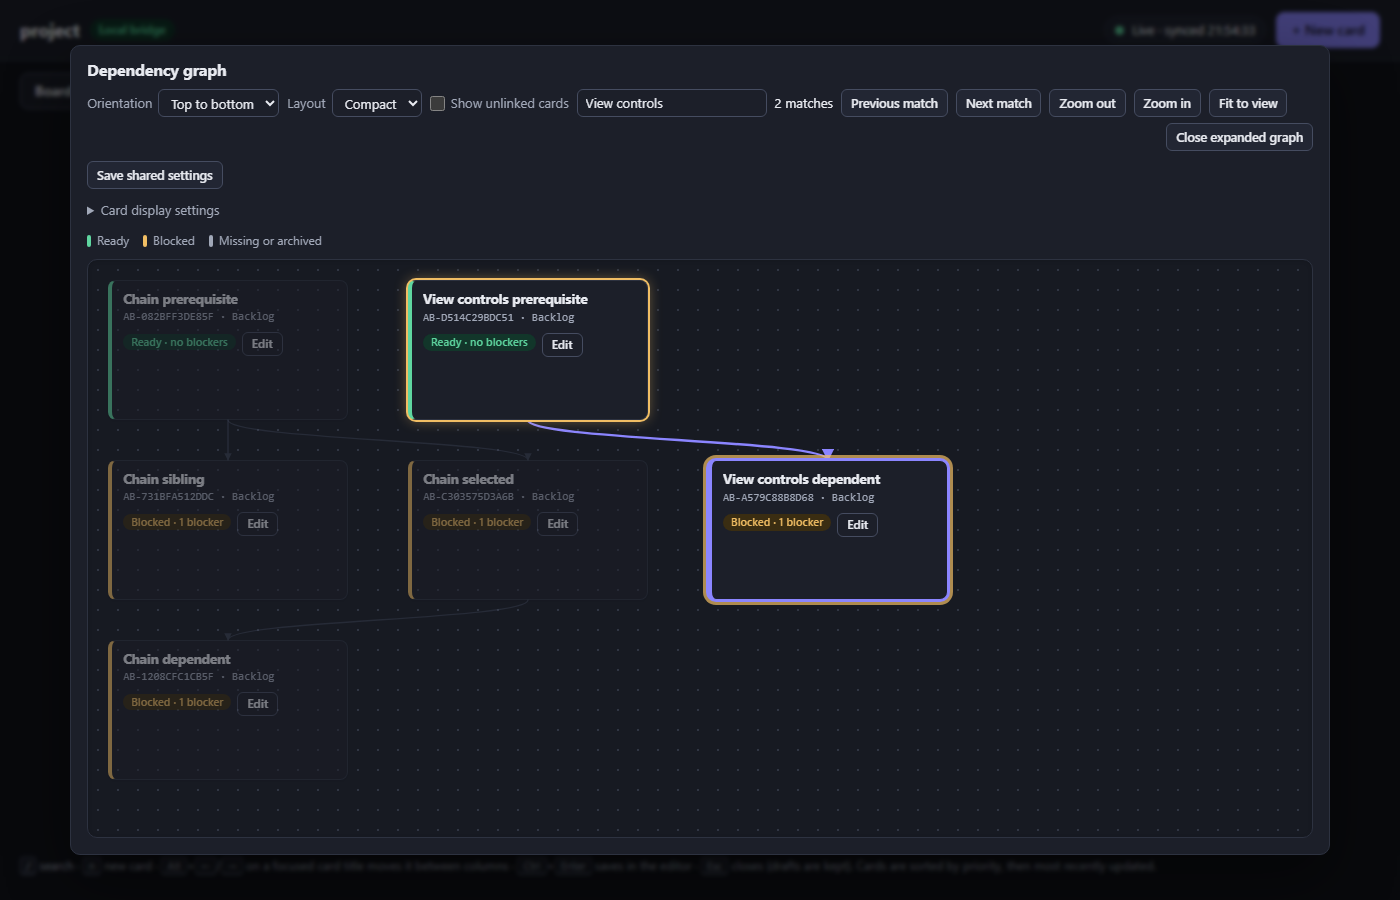
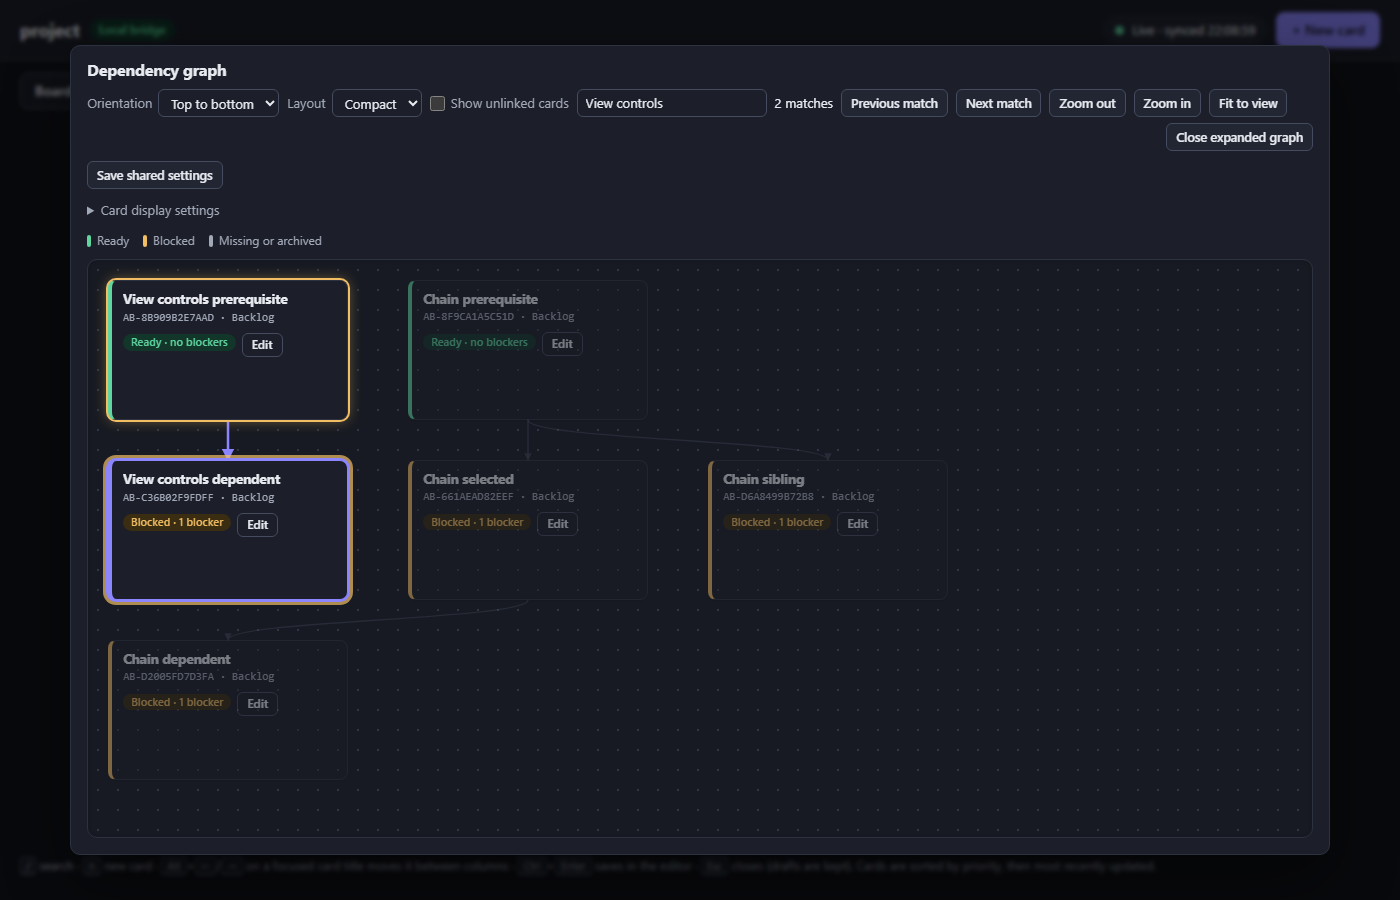
fix: keep graph controls accessible

diff --git a/tests/ui.test.ts b/tests/ui.test.ts
@@ -50,6 +50,14 @@ const cardsJs = `[...document.querySelectorAll('.col')].map(c => ({col: c.datase
 const colOf = (title: string) => `(() => { const t = [...document.querySelectorAll('.card-title')].find(x => x.textContent === ${JSON.stringify(title)}); return t ? t.closest('.col').dataset.col : null; })()`;
 const cardSel = (id: string) => `.card[data-id="${id}"]`;
 const hasCard = (title: string) => `[...document.querySelectorAll('.card-title')].some(x => x.textContent === ${JSON.stringify(title)})`;
+/** The selection state lives on the node's select button, not on the node container. */
+const pressed = (node: string) => `${node} .graph-select`;
+/** Native button activation needs the keypress (text) part of the key event, which Page.key() does not send. */
+async function pressActivationKey(p: Page, key: 'Enter' | ' ') {
+  const base = key === 'Enter' ? {key, code: 'Enter', windowsVirtualKeyCode: 13, nativeVirtualKeyCode: 13, text: '\r'} : {key, code: 'Space', windowsVirtualKeyCode: 32, nativeVirtualKeyCode: 32, text: ' '};
+  await p.send('Input.dispatchKeyEvent', {type: 'keyDown', ...base});
+  await p.send('Input.dispatchKeyEvent', {type: 'keyUp', ...base, text: undefined});
+}
 const shot = async (name: string) => { if (SHOTS) { mkdirSync(SHOTS, {recursive: true}); await page.screenshot(join(SHOTS, name + '.png')); } };
 async function openCard(title: string) { await page.click(`.card-title[title=${JSON.stringify(title)}]`); await page.waitFor(`document.querySelector('#editor').open && document.querySelector('#ed-title').value === ${JSON.stringify(title)}`, 5000, 'editor open for ' + title); }
 
@@ -164,12 +172,12 @@ describe.skipIf(!ready)('board.html (bridge mode)', () => {
       await p.eval(`document.querySelector(${JSON.stringify(node(child.id))}).click()`);
       await p.eval(`[...document.querySelectorAll('.graph-tools button')].find(b => b.textContent === 'Expand graph').click()`);
       expect(await p.eval(`document.querySelector('[role="dialog"][aria-label="Expanded dependency graph"]') !== null`)).toBe(true);
-      expect(await p.eval(`document.querySelector(${JSON.stringify(node(child.id))}).getAttribute('aria-pressed')`)).toBe('true');
+      expect(await p.eval(`document.querySelector(${JSON.stringify(pressed(node(child.id)))}).getAttribute('aria-pressed')`)).toBe('true');
       if (SHOTS) { mkdirSync(SHOTS, {recursive: true}); await p.resize(1400, 900); await p.screenshot(join(SHOTS, 'graph-expanded-vertical.png')); }
       await p.focus('.graph-viewport');
       await p.key('Escape');
       expect(await p.eval(`document.querySelector('[role="dialog"][aria-label="Expanded dependency graph"]') !== null`)).toBe(true);
-      expect(await p.eval(`document.querySelector(${JSON.stringify(node(child.id))}).getAttribute('aria-pressed')`)).toBe('false');
+      expect(await p.eval(`document.querySelector(${JSON.stringify(pressed(node(child.id)))}).getAttribute('aria-pressed')`)).toBe('false');
       await p.focus('.graph-viewport');
       await p.key('Escape');
       expect(await p.eval(`document.querySelector('[role="dialog"][aria-label="Expanded dependency graph"]') === null`)).toBe(true);
@@ -213,16 +221,89 @@ describe.skipIf(!ready)('board.html (bridge mode)', () => {
     const node = `.graph-node[data-id="${item.id}"]`;
     try {
       await p.goto(url()); await p.waitFor(hasCard('Keyboard graph item')); await p.click('#view-graph');
-      await p.focus(node); await p.key('Enter');
-      expect(await p.eval(`document.querySelector(${JSON.stringify(node)}).getAttribute('aria-pressed')`)).toBe('true');
-      await p.focus(`${node} button`);
+      await p.focus(`${node} .graph-select`); await pressActivationKey(p, 'Enter');
+      expect(await p.eval(`document.querySelector(${JSON.stringify(pressed(node))}).getAttribute('aria-pressed')`)).toBe('true');
+      await p.focus(`[data-fk="${item.id}:graph-edit"]`);
       expect(await p.eval(`document.activeElement.textContent`)).toBe('Edit');
-      await p.key('Enter');
+      await pressActivationKey(p, 'Enter');
       await p.waitFor(`document.querySelector('#editor').open`);
       expect(await p.eval(`document.querySelector('#ed-title').value`)).toBe('Keyboard graph item');
       await p.click('#ed-cancel');
       await p.waitFor(`!document.querySelector('#editor').open`);
-      expect(await p.eval(`document.querySelector(${JSON.stringify(node)}).getAttribute('aria-pressed')`)).toBe('true');
+      expect(await p.eval(`document.querySelector(${JSON.stringify(pressed(node))}).getAttribute('aria-pressed')`)).toBe('true');
+    } finally { await p.send('Page.close'); }
+  });
+
+  test('graph node selection, Edit and Collapse are separate non-nested controls', async () => {
+    const done = cliJson('create', 'Accessible done prerequisite');
+    const item = cliJson('create', 'Accessible dependent');
+    cliJson('dependency-add', item.id, done.id);
+    cliJson('move', done.id, 'done');
+    const p = await chrome.newPage();
+    const node = `.graph-node[data-id="${done.id}"]`;
+    try {
+      await p.goto(url()); await p.waitFor(hasCard('Accessible dependent')); await p.click('#view-graph');
+      await p.waitFor(`document.querySelector(${JSON.stringify(node)})`);
+      await p.focus(`${node} .graph-select`); await pressActivationKey(p, ' ');
+      expect(await p.eval(`document.querySelector(${JSON.stringify(pressed(node))}).getAttribute('aria-pressed')`)).toBe('true');
+      expect(await p.eval(`document.querySelector(${JSON.stringify(node)}).classList.contains('collapsed')`)).toBe(false);
+      const structure = await p.eval<{nodeRole: string | null; nodeTabindex: string | null; nested: number; names: string[]; selectLabel: string}>(`(() => {
+        const n = document.querySelector(${JSON.stringify(node)});
+        const controls = [...n.querySelectorAll('button')];
+        return {
+          nodeRole: n.getAttribute('role'), nodeTabindex: n.getAttribute('tabindex'),
+          nested: n.querySelectorAll('[role="button"] button, button button, button [tabindex]').length,
+          names: controls.map(b => b.getAttribute('aria-label') || b.textContent),
+          selectLabel: n.querySelector('.graph-select').getAttribute('aria-label'),
+        };
+      })()`);
+      expect(structure.nodeRole).toBe('group');
+      expect(structure.nodeTabindex).toBeNull();
+      expect(structure.nested).toBe(0);
+      expect(structure.names).toEqual([structure.selectLabel, 'Edit', 'Collapse']);
+      expect(structure.selectLabel).toContain('Accessible done prerequisite');
+      await p.focus(`[data-fk="graph-collapse:${done.id}"]`); await pressActivationKey(p, 'Enter');
+      expect(await p.eval(`document.querySelector(${JSON.stringify(node)}).classList.contains('collapsed')`)).toBe(true);
+      expect(await p.eval(`document.querySelector(${JSON.stringify(pressed(node))}).getAttribute('aria-pressed')`)).toBe('true');
+    } finally { await p.send('Page.close'); }
+  });
+
+  test('saving from the expanded graph editor returns focus to the graph Edit button', async () => {
+    const parent = cliJson('create', 'Save focus prerequisite');
+    const child = cliJson('create', 'Save focus card');
+    cliJson('dependency-add', child.id, parent.id);
+    const p = await chrome.newPage();
+    try {
+      await p.goto(url()); await p.waitFor(hasCard('Save focus card')); await p.click('#view-graph');
+      await p.click('[data-graph-expand]');
+      await p.click(`[data-fk="${child.id}:graph-edit"]`);
+      await p.waitFor(`document.querySelector('#editor').open`);
+      await p.set('#ed-title', 'Save focus renamed');
+      await p.click('#ed-save');
+      await p.waitFor(`!document.querySelector('#editor').open`, 10000);
+      await p.waitFor(`document.querySelector('.graph-node[data-id="${child.id}"]').textContent.includes('Save focus renamed')`, 12000);
+      expect(await p.eval(`document.activeElement.dataset.fk`)).toBe(`${child.id}:graph-edit`);
+      expect(await p.eval(`document.querySelector('[aria-label="Expanded dependency graph"]').contains(document.activeElement)`)).toBe(true);
+    } finally { await p.send('Page.close'); }
+  });
+
+  test('graph hover highlight is cleared when the hovered card disappears while polling', async () => {
+    const parent = cliJson('create', 'Hover gone prerequisite');
+    const hovered = cliJson('create', 'Hover gone dependent');
+    const other = cliJson('create', 'Hover stays dependent');
+    const anchor = cliJson('create', 'Hover stays prerequisite');
+    cliJson('dependency-add', hovered.id, parent.id);
+    cliJson('dependency-add', other.id, anchor.id);
+    const p = await chrome.newPage();
+    try {
+      await p.goto(url()); await p.waitFor(hasCard('Hover gone dependent')); await p.click('#view-graph');
+      await p.focus(`.graph-node[data-id="${hovered.id}"] .graph-select`);
+      // Focusing a card dims everything outside its chain, so the unrelated card proves the hover is active.
+      expect(await p.eval(`document.querySelector('.graph-node[data-id="${other.id}"]').classList.contains('dim')`)).toBe(true);
+      cliJson('dependency-remove', hovered.id, parent.id);
+      await p.waitFor(`!document.querySelector('.graph-node[data-id="${hovered.id}"]')`, 12000);
+      // A stale hover on the vanished card would dim every remaining card and edge.
+      expect(await p.eval(`document.querySelectorAll('.graph-node.dim, .graph-edge.dim').length`)).toBe(0);
     } finally { await p.send('Page.close'); }
   });
 
@@ -285,12 +366,12 @@ describe.skipIf(!ready)('board.html (bridge mode)', () => {
       await p.waitFor(`document.querySelector(${JSON.stringify(node)})`);
       expect(await p.eval(`(() => { const n = document.querySelector(${JSON.stringify(node)}), m = n.querySelector('.graph-meta'); return m.textContent.includes('Done') && m.getBoundingClientRect().bottom <= n.getBoundingClientRect().bottom; })()`)).toBe(true);
       await p.eval(`document.querySelector(${JSON.stringify(node)}).click()`);
-      expect(await p.eval(`document.querySelector(${JSON.stringify(node)}).getAttribute('aria-pressed')`)).toBe('true');
+      expect(await p.eval(`document.querySelector(${JSON.stringify(pressed(node))}).getAttribute('aria-pressed')`)).toBe('true');
       await p.eval(`[...document.querySelectorAll(${JSON.stringify(node + ' button')})].find(b => b.textContent === 'Collapse').click()`);
       expect(await p.eval(`document.querySelector(${JSON.stringify(node)}).classList.contains('collapsed')`)).toBe(true);
       await p.eval(`document.querySelector(${JSON.stringify(node)}).click()`);
       expect(await p.eval(`document.querySelector(${JSON.stringify(node)}).classList.contains('collapsed')`)).toBe(false);
-      expect(await p.eval(`document.querySelector(${JSON.stringify(node)}).getAttribute('aria-pressed')`)).toBe('true');
+      expect(await p.eval(`document.querySelector(${JSON.stringify(pressed(node))}).getAttribute('aria-pressed')`)).toBe('true');
     } finally { await p.send('Page.close'); }
   });
 
@@ -326,7 +407,7 @@ describe.skipIf(!ready)('board.html (bridge mode)', () => {
       await p.send('Input.dispatchMouseEvent', {type:'mousePressed', x:point.x, y:point.y, button:'left', buttons:1, clickCount:1});
       await p.send('Input.dispatchMouseEvent', {type:'mouseMoved', x:point.x+65, y:point.y, button:'left', buttons:1});
       await p.send('Input.dispatchMouseEvent', {type:'mouseReleased', x:point.x+65, y:point.y, button:'left', clickCount:1});
-      expect(await p.eval(`document.querySelector(${JSON.stringify(node)}).getAttribute('aria-pressed')`)).toBe('true');
+      expect(await p.eval(`document.querySelector(${JSON.stringify(pressed(node))}).getAttribute('aria-pressed')`)).toBe('true');
     } finally { await p.send('Page.close'); }
   });
 
@@ -339,7 +420,7 @@ describe.skipIf(!ready)('board.html (bridge mode)', () => {
     try {
       await p.goto(url()); await p.waitFor(hasCard('Expanded editor card')); await p.click('#view-graph');
       await p.click('[data-graph-expand]');
-      await p.click(`${node} button`);
+      await p.click(`[data-fk="${child.id}:graph-edit"]`);
       await p.waitFor(`document.querySelector('#editor').open`);
       expect(await p.eval(`document.querySelector('#ed-title').value`)).toBe('Expanded editor card');
       expect(await p.eval(`document.querySelector('#editor').contains(document.activeElement)`)).toBe(true);

diff --git a/scripts/board.html b/scripts/board.html
@@ -268,7 +268,11 @@ details.draft-text textarea{width:100%;min-height:120px;font-family:ui-monospace
 .graph-node.dim{opacity:.3}
 .graph-node.search-match{box-shadow:0 0 0 2px var(--warn),0 0 14px color-mix(in srgb,var(--warn) 45%,transparent)}
 .graph-node.selected.search-match{box-shadow:0 0 0 2px var(--accent),0 0 0 5px color-mix(in srgb,var(--warn) 70%,transparent)}
-.graph-node:focus-visible{outline:2px solid var(--accent);outline-offset:2px}
+.graph-node:has(.graph-select:focus-visible){outline:2px solid var(--accent);outline-offset:2px}
+/* The selection control is a real button laid over the card; Edit and Collapse are sibling buttons above it, never nested inside it. */
+.graph-select{position:absolute;inset:0;z-index:0;width:100%;height:100%;margin:0;padding:0;border:0;border-radius:inherit;background:transparent;color:inherit;cursor:pointer}
+.graph-select:focus,.graph-select:focus-visible{outline:none}
+.graph-node .btn.small{position:relative;z-index:1}
 .graph-node p{margin:4px 0}
 .graph-node strong{flex:1 0 100%;display:-webkit-box;-webkit-line-clamp:2;-webkit-box-orient:vertical;overflow:hidden;font-size:13.5px;font-weight:650;line-height:1.3;letter-spacing:-.005em}
 .graph-node .graph-meta{flex:1 0 100%;font-size:11.5px;line-height:1.35;color:var(--muted);overflow:hidden;text-overflow:ellipsis;white-space:nowrap}
@@ -1604,6 +1608,8 @@ function renderGraph(root, previousFocus) {
   const query = g.search.trim().toLowerCase();
   const matches = query ? ids.filter(id => (id + ' ' + (snap.items.get(id)?.title || 'Missing card')).toLowerCase().includes(query)) : [];
   if (g.selected && !linked.has(g.selected)) g.selected = null;
+  /* A card that vanished while hovered or focused never fires mouseleave or blur, so drop the stale highlight here. */
+  if (g.hover && !linked.has(g.hover)) g.hover = null;
 
   const panel = h('section', {class:'panel graph-panel' + (g.expanded ? ' graph-expanded' : ''), 'aria-label':g.expanded ? 'Expanded dependency graph' : 'Dependency graph', ...(g.expanded ? {role:'dialog', 'aria-modal':'true'} : {})});
   const viewport = graphControl('div', 'graph-viewport', {class:'graph-viewport', tabindex:'0', 'aria-label':'Dependency graph canvas'});
@@ -1643,30 +1649,32 @@ function renderGraph(root, previousFocus) {
     const status = item ? (item.archived ? 'Archived · ' : '') + (snap.config.columns.find(c => c.id === item.status)?.name || item.status) : 'Missing card';
     const readiness = !item ? 'Unavailable, satisfied' : blockers ? 'Blocked' : 'Ready';
     const classes = ['graph-node', blockers && 'blocked', (!item || item.archived) && 'unavailable', collapsed && 'collapsed', id === g.selected && 'selected', matches.includes(id) && 'search-match'];
-    const node = graphControl('div', 'graph-node:' + id, {
-      class:classes.filter(Boolean).join(' '), style:`left:${p.x}px;top:${p.y}px;height:${heightFor(id)}px`, 'data-id':id, tabindex:'0', role:'button',
-      'aria-pressed':String(id === g.selected), 'aria-label':`${item?.title || 'Missing card'}, ${id}, ${status}, ${readiness}`,
+    /* The card is a labelled group of three sibling controls (Select, Edit, Collapse); none is nested in another. */
+    const node = h('div', {
+      class:classes.filter(Boolean).join(' '), style:`left:${p.x}px;top:${p.y}px;height:${heightFor(id)}px`, 'data-id':id,
+      role:'group', 'aria-label':item?.title || 'Missing card',
     });
     const select = () => {
       if (collapsed) { g.opened.add(id); g.selected = id; }
       else g.selected = g.selected === id ? null : id;
       graphRefresh();
     };
-    node.addEventListener('click', select);
-    node.addEventListener('keydown', e => {
-      if (e.target === node && (e.key === 'Enter' || e.key === ' ')) { e.preventDefault(); select(); }
-      else if (e.target instanceof HTMLButtonElement && e.key === 'Enter') { e.preventDefault(); e.target.click(); }
+    /* A native button supplies Enter and Space; clicks anywhere on the card (the button covers it) reach the node. */
+    const selector = graphControl('button', 'graph-node:' + id, {
+      type:'button', class:'graph-select', 'aria-pressed':String(id === g.selected),
+      'aria-label':`${item?.title || 'Missing card'}, ${id}, ${status}, ${readiness}`,
     });
+    node.addEventListener('click', select);
     const setHover = value => () => { g.hover = value; highlight(); };
-    for (const type of ['mouseenter', 'focus']) node.addEventListener(type, setHover(id));
-    for (const type of ['mouseleave', 'blur']) node.addEventListener(type, setHover(null));
-    node.append(
-      h('strong', {text:item?.title || 'Missing card'}),
-      h('div', {class:'graph-meta graph-id', text:collapsed ? status + (!item ? ' · ' + id : '') : id + ' · ' + status}));
+    for (const type of ['mouseenter', 'focusin']) node.addEventListener(type, setHover(id));
+    for (const type of ['mouseleave', 'focusout']) node.addEventListener(type, setHover(null));
+    node.append(selector,
+      h('strong', {text:item?.title || 'Missing card', 'aria-hidden':'true'}),
+      h('div', {class:'graph-meta graph-id', 'aria-hidden':'true', text:collapsed ? status + (!item ? ' · ' + id : '') : id + ' · ' + status}));
     if (collapsed) return node;
     const stateClass = !item ? 'unavailable' : blockers ? 'blocked' : 'ready';
     const stateText = !item ? 'Unavailable · satisfied' : blockers ? 'Blocked · ' + blockers + ' blocker' + (blockers === 1 ? '' : 's') : 'Ready · no blockers';
-    node.append(h('div', {class:'graph-meta graph-state ' + stateClass, text:stateText}));
+    node.append(h('div', {class:'graph-meta graph-state ' + stateClass, 'aria-hidden':'true', text:stateText}));
     if (item) for (const field of g.settings.fields || []) {
       const value = graphFieldValue(snap, item, field);
       if (value === null || value === undefined || value === '') continue;
@@ -2548,7 +2556,8 @@ async function saveDraft(d) {
       const live = S.snap.items.get(d.id);
       if (live) { d.base = live; d.fields = fieldsFrom(live); d.conflict = null; }
     } else S.drafts.delete(key);
-    S.returnFocus = (createdId || d.id) + ':title';
+    // The graph supplies its own return target (its Edit button); only list views focus the card title.
+    if (S.view !== 'graph') S.returnFocus = (createdId || d.id) + ':title';
     if (S.editing === key) closeEditorUi();
     const msg = createdId ? `Created ${createdId}.` : `Saved ${d.id}.`;
     toast(msg, {kind: 'ok'}); announce(msg);
@@ -2614,7 +2623,8 @@ function wire() {
     const d = key && S.drafts.get(key);
     if (d && !d.keepThreadDraft && !isDirty(d)) S.drafts.delete(key);
     renderDrafts(); renderBoard();
-    if (!focusFk(S.returnFocus)) { const n = S.returnFocus === 'new-card' ? $('#new-card') : null; (n || $('#board')).focus(); }
+    const graphCard = S.view === 'graph' && /:graph-edit$/.test(S.returnFocus || '') ? 'graph-node:' + S.returnFocus.replace(/:graph-edit$/, '') : null;
+    if (!focusFk(S.returnFocus) && !focusFk(graphCard)) { const n = S.returnFocus === 'new-card' ? $('#new-card') : null; (n || $('#board')).focus(); }
   });
   document.addEventListener('keydown', e => {
     if (e.defaultPrevented || e.ctrlKey || e.metaKey || e.altKey) return;
